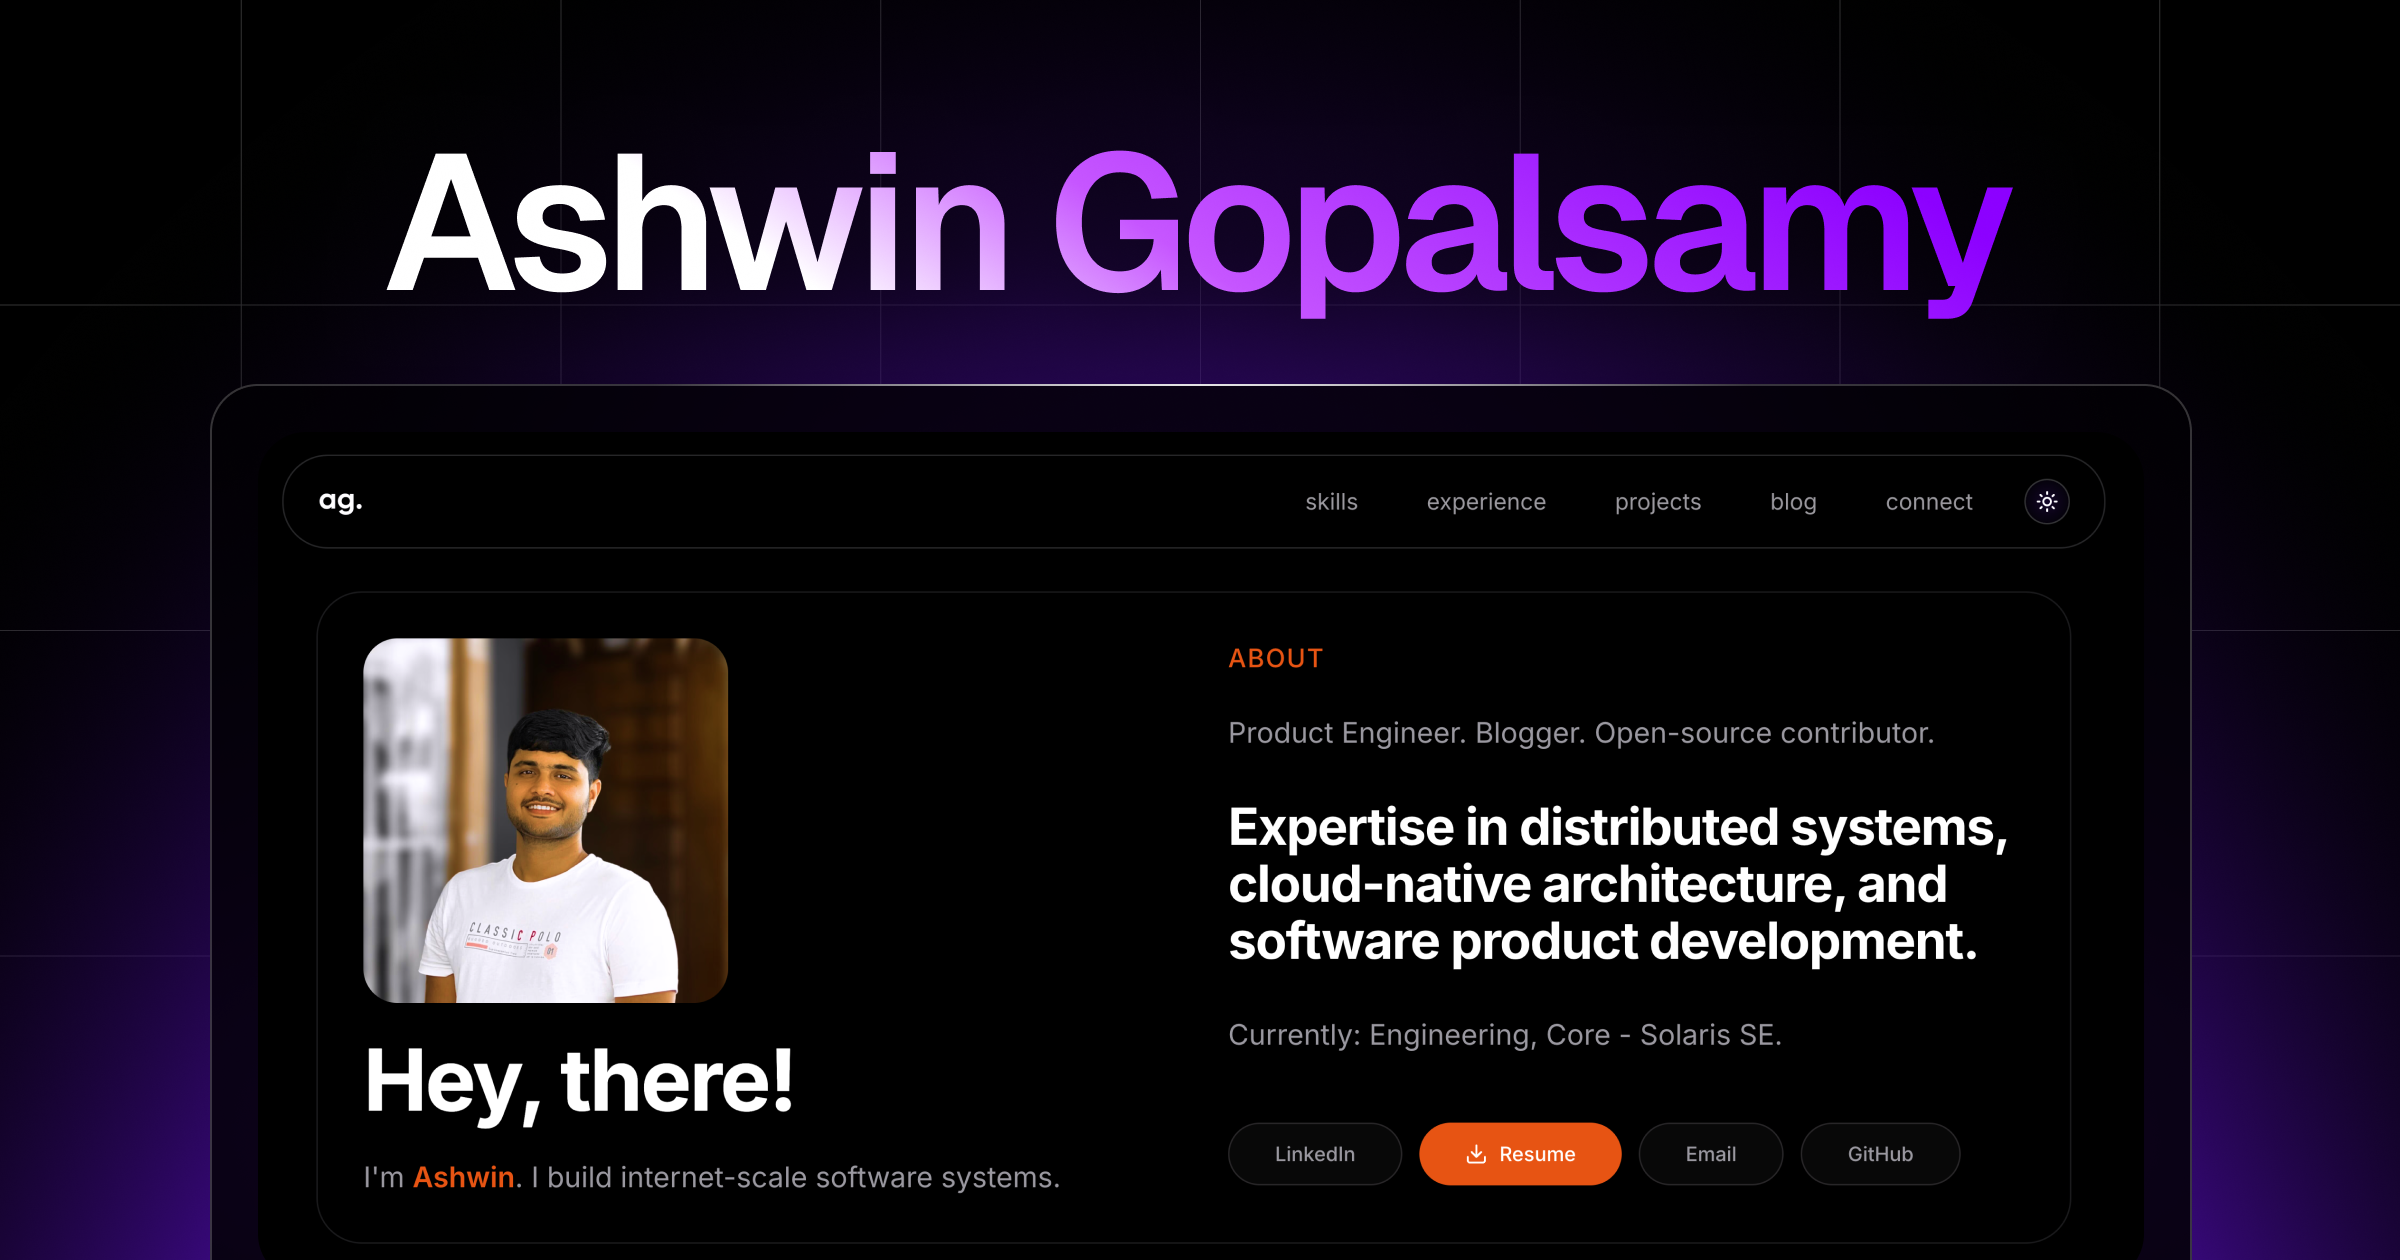
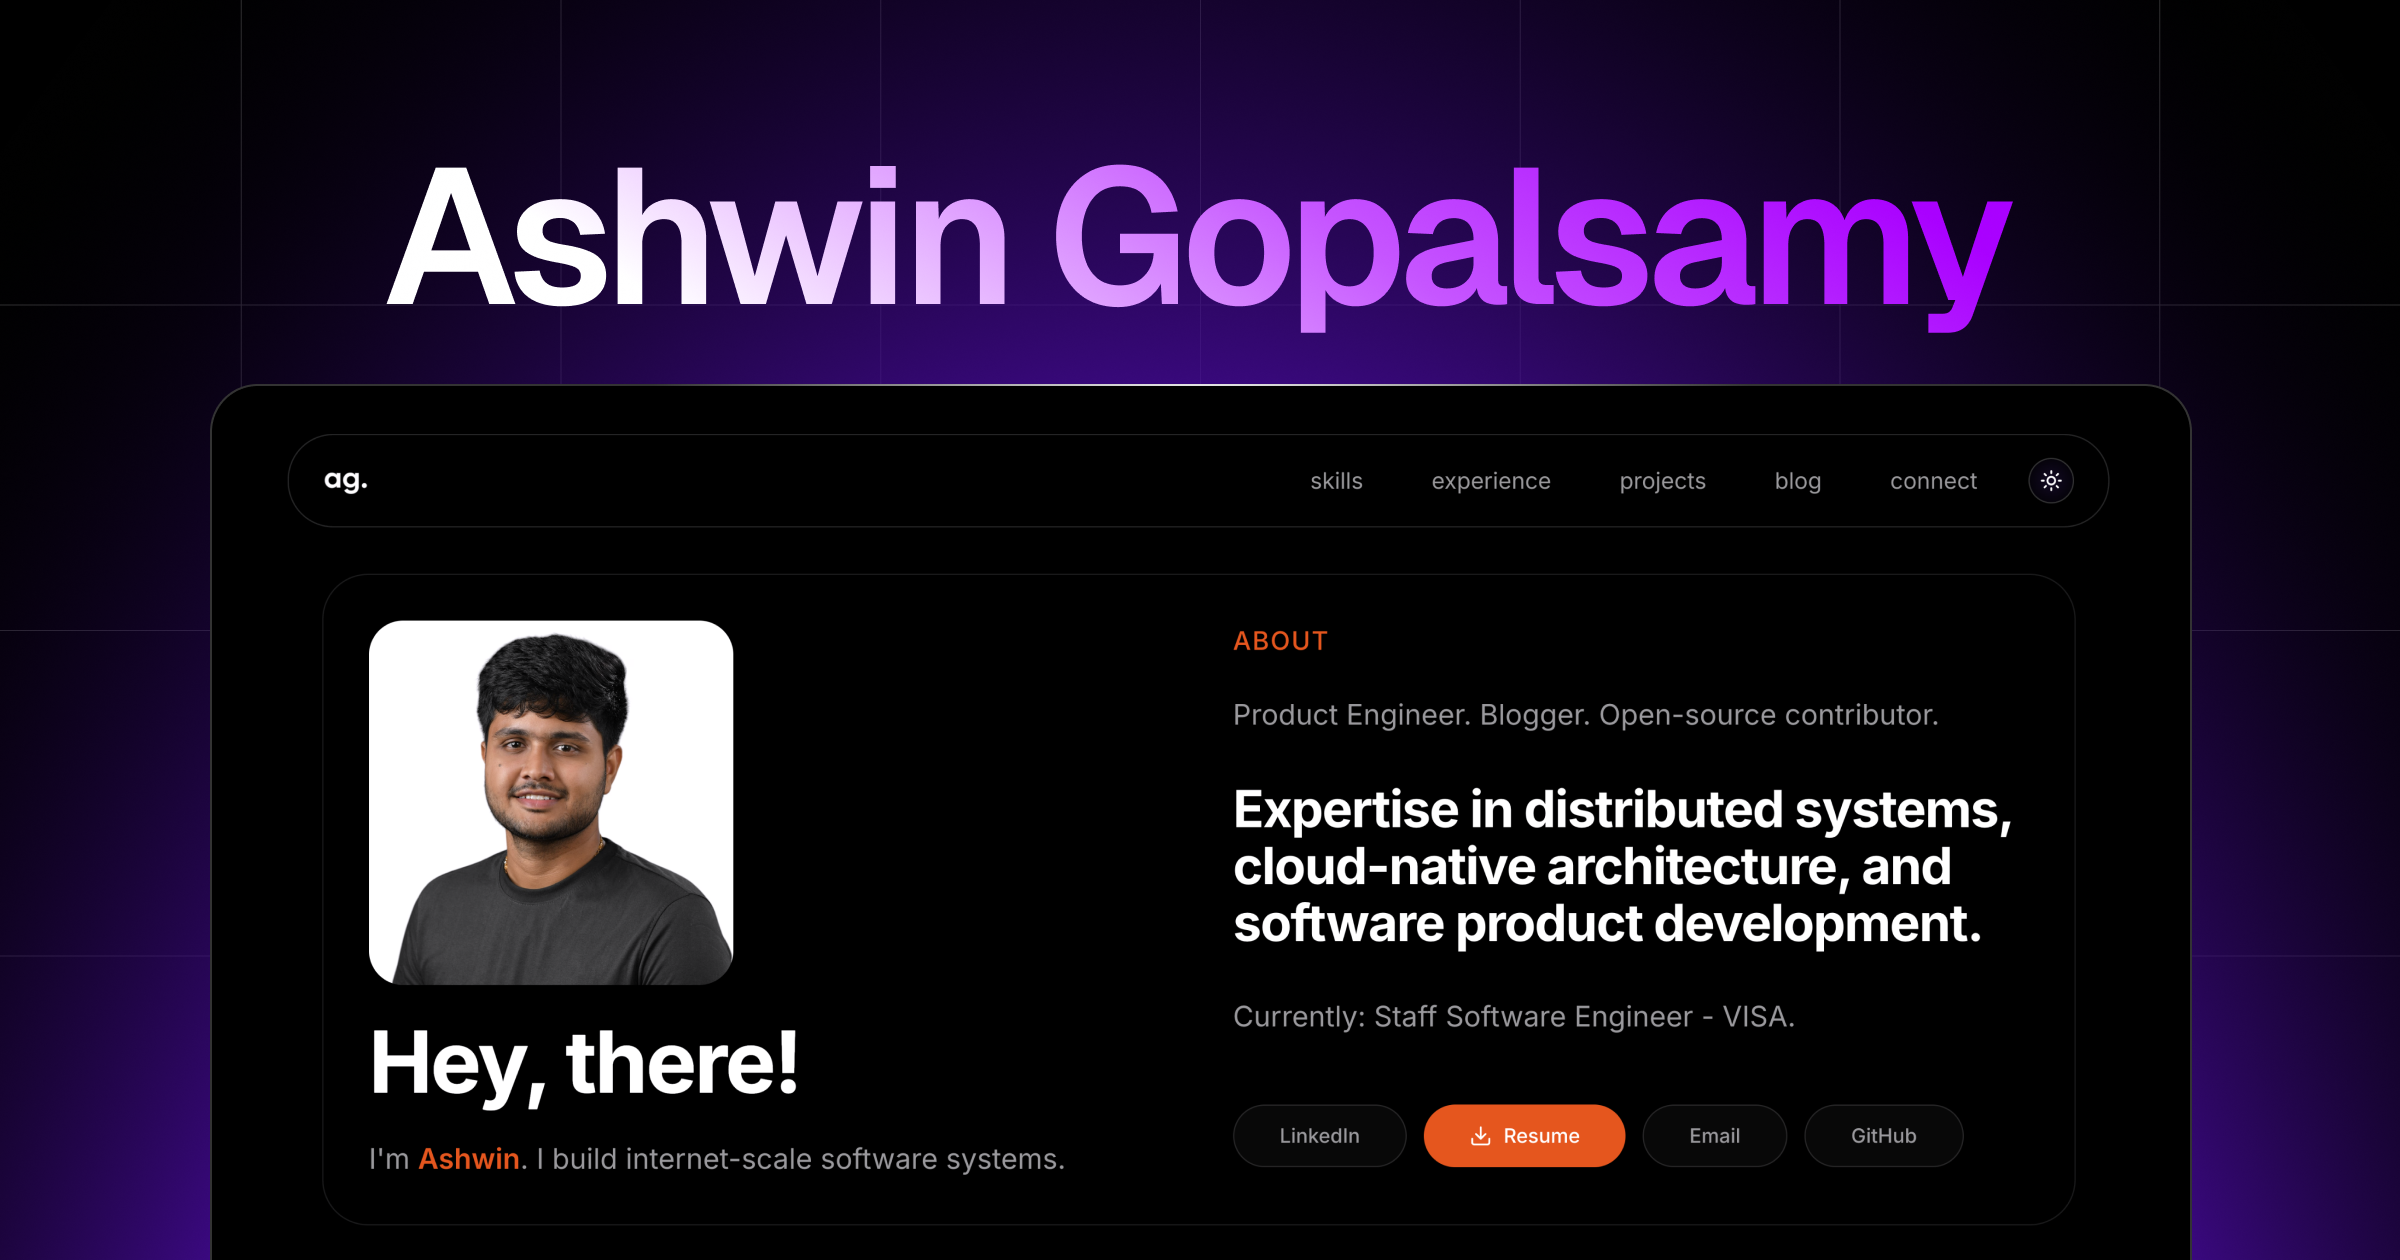
feat: add VISA update (#21)

diff --git a/components/sections/experience-section.tsx b/components/sections/experience-section.tsx
@@ -8,21 +8,38 @@ import { Button } from "@/components/ui/button"
 import { Calendar, ChevronDown, ChevronUp, Download, ExternalLink } from "lucide-react"
 import { cn } from "@/lib/utils"
 import { useTheme } from "next-themes"
-import { useMediaQuery } from "@/hooks/use-media-query"
 
 export function ExperienceSection() {
     const [expandedExperience, setExpandedExperience] = useState<number | null>(null)
     const { theme } = useTheme()
-    const isMobile = useMediaQuery("(max-width: 640px)")
     const sectionRef = useRef<HTMLElement>(null)
     const isInView = useInView(sectionRef, { once: true, margin: "-100px 0px" })
 
     const experiences = [
         {
+            company: "VISA",
+            logo: "/VISA.svg",
+            role: "Staff Software Engineer",
+            period: "May 2025 - Present",
+            description: [
+                "At VISA, I work on Pismo; a modern, cloud-native platform powering banks and fintechs across the globe with scalable, secure financial infrastructure.",
+                "Contributing to the platform thats safeguarding substantially high-volume system interactions with real-time decisioning and reliability at scale.",
+                "Immersing in VISA's global-grade engineering practices, while aligning early efforts toward platform integrity, modularity, and long-term resilience.",
+            ],
+            skills: [
+                "Go",
+                "Distributed Systems",
+                "Cloud Native Architecture",
+                "Event-driven Architecture",
+                "Microservices",
+            ],
+            link: "https://www.visa.com",
+        },
+        {
             company: "Solaris SE",
             logo: "/Solaris.svg",
             role: "Professional Engineer",
-            period: "January 2022 - April 2025",
+            period: "June 2022 - April 2025",
             description: [
                 "Owning the Accounts Domain within the Core Banking unit, home to foundational systems powering accounts lifecycle and interest-based financial products.",
                 "Designed and implemented cloud-native microservices using an event-sourced architecture - engineered for resilience, uptime, and scale.",
@@ -69,8 +86,8 @@ export function ExperienceSection() {
             period: "4 months",
             description: [
                 "Learnt & engaged in the development of an open-source project over a 4-month span, utilizing Microsoft Azure Cloud and GitHub, as a key participant in Microsoft's 'FutureReadyTalent' Internship Program.",
-                "Built Bud.ai - ‘The Student Twin’, an open-source project developed on Microsoft Azure as part of the FutureReadyTalent program.",
-                "Collaborated via GitHub and deployed cloud-native features using Azure’s AI tooling, getting hands-on exposure to open-source practices and scalable app design.",
+                "Built Bud.ai - 'The Student Twin', an open-source project developed on Microsoft Azure as part of the FutureReadyTalent program.",
+                "Collaborated via GitHub and deployed cloud-native features using Azure's AI tooling, getting hands-on exposure to open-source practices and scalable app design.",
             ],
             skills: ["Microsoft Azure", "JavaScript", "Git"],
             link: "https://news.microsoft.com/en-in/microsoft-collaborates-with-aicte-nasscom-ey-github-and-quess-corp-to-empower-indias-youth-with-tech-skills-to-be-job-ready/",
@@ -81,7 +98,7 @@ export function ExperienceSection() {
             role: "i++ Trainee",
             period: "3 months",
             description: [
-                "Selected as one of 30 trainees for Swiggy’s i++ engineering program - an immersive bootcamp focused on backend engineering at scale.",
+                "Selected as one of 30 trainees for Swiggy's i++ engineering program - an immersive bootcamp focused on backend engineering at scale.",
                 "Trained hands-on with real-world engineering tools and patterns - covering Go, gRPC, Kafka, AWS, and distributed databases.",
                 "Learned through mentorship, pair programming, and internal engineering talks that shaped a strong foundation in building production-grade systems.",
                 "This experience played a pivotal role in shaping my transition into backend product development, grounding me in modern cloud-native practices very early in my career.",
@@ -164,7 +181,7 @@ export function ExperienceSection() {
                                         >
                                             <div className="flex items-center space-x-4">
                                                 <motion.div
-                                                    className="w-16 h-16 bg-secondary flex items-center justify-center rounded-xl overflow-hidden"
+                                                    className="w-16 h-16 bg-white flex items-center justify-center rounded-xl overflow-hidden"
                                                     whileHover={{ scale: 1.05, rotate: 5 }}
                                                     transition={{ duration: 0.3 }}
                                                 >

diff --git a/app/layout.tsx b/app/layout.tsx
@@ -9,7 +9,7 @@ const baseUrl = "https://ashwingopalsamy.in"
 export const metadata: Metadata = {
   metadataBase: new URL(baseUrl),
   title: {
-    default: "Ashwin Gopalsamy | Cloud-Native Backend Engineer & Distributed Systems Specialist",
+    default: "Ashwin Gopalsamy",
     template: "%s | Ashwin Gopalsamy",
   },
   description:
@@ -57,13 +57,13 @@ export const metadata: Metadata = {
     type: "website",
     locale: "en_US",
     url: baseUrl,
-    title: "Ashwin Gopalsamy | Cloud-Native Backend Engineer & Distributed Systems Specialist",
+    title: "Ashwin Gopalsamy",
     description:
         "Software engineer with 4+ years experience in Go, AWS, and event-sourced microservices architecture for fintech products.",
     siteName: "Ashwin Gopalsamy",
     images: [
       {
-        url: `${baseUrl}/_vercel/image?url=${encodeURIComponent(`${baseUrl}/og-image.png`)}&w=1200&q=75`,
+        url: `${baseUrl}/og-image.png`,
         width: 1200,
         height: 630,
         alt: "Ashwin Gopalsamy - Software Engineer specializing in cloud-native backend development",
@@ -73,34 +73,26 @@ export const metadata: Metadata = {
   },
   twitter: {
     card: "summary_large_image",
-    title: "Ashwin Gopalsamy | Cloud-Native Backend Engineer",
+    title: "Ashwin Gopalsamy",
     description:
         "Software engineer specializing in Go, AWS, and distributed systems with experience building fintech products at scale.",
     creator: "@ashwingopalsamy",
-    images: [`${baseUrl}/_vercel/image?url=${encodeURIComponent(`${baseUrl}/og-image.png`)}&w=1200&q=75`],
+    images: [`${baseUrl}/og-image.png`],
   },
   other: {
-    "og:image": `${baseUrl}/_vercel/image?url=${encodeURIComponent(`${baseUrl}/og-image.png`)}&w=1200&q=75`,
-    "og:image:secure_url": `${baseUrl}/_vercel/image?url=${encodeURIComponent(`${baseUrl}/og-image.png`)}&w=1200&q=75`,
-    "og:image:type": "image/png",
-    "og:image:width": "1200",
-    "og:image:height": "630",
-    "og:image:alt": "Ashwin Gopalsamy - Software Engineer specializing in cloud-native backend development",
-    "og:image:url": `${baseUrl}/_vercel/image?url=${encodeURIComponent(`${baseUrl}/og-image.png`)}&w=1200&q=75`,
-    "og:url": baseUrl,
-    "og:site_name": "Ashwin Gopalsamy",
-    "og:title": "Ashwin Gopalsamy | Cloud-Native Backend Engineer & Distributed Systems Specialist",
-    "og:description": "Software engineer with 4+ years experience in Go, AWS, and event-sourced microservices architecture for fintech products.",
-    "whatsapp:image": `${baseUrl}/_vercel/image?url=${encodeURIComponent(`${baseUrl}/og-image.png`)}&w=1200&q=75`,
-    "whatsapp:title": "Ashwin Gopalsamy | Cloud-Native Backend Engineer & Distributed Systems Specialist",
-    "whatsapp:description": "Software engineer with 4+ years experience in Go, AWS, and event-sourced microservices architecture for fintech products.",
-  },
-  other: {
+    "og:image": `${baseUrl}/og-image.png`,
     "og:image:secure_url": `${baseUrl}/og-image.png`,
     "og:image:type": "image/png",
     "og:image:width": "1200",
     "og:image:height": "630",
     "og:image:alt": "Ashwin Gopalsamy - Software Engineer specializing in cloud-native backend development",
+    "og:url": baseUrl,
+    "og:site_name": "Ashwin Gopalsamy",
+    "og:title": "Ashwin Gopalsamy",
+    "og:description": "Software engineer with 4+ years experience in Go, AWS, and event-sourced microservices architecture for fintech products.",
+    "whatsapp:image": `${baseUrl}/_vercel/image?url=${encodeURIComponent(`${baseUrl}/og-image.png`)}&w=1200&q=75`,
+    "whatsapp:title": "Ashwin Gopalsamy",
+    "whatsapp:description": "Software engineer with 4+ years experience in Go, AWS, and event-sourced microservices architecture for fintech products.",
   },
   verification: {
     google: "google-site-verification-code", // Replace with actual verification code

diff --git a/app/client.tsx b/app/client.tsx
@@ -73,7 +73,6 @@ export default function ClientLayout({
                 media="(prefers-color-scheme: light)"
                 fetchPriority="high"
             />
-            <link rel="preload" href="/Solaris.svg" as="image" />
 
             {/* DNS prefetch for external resources */}
             <link rel="dns-prefetch" href="https://fonts.googleapis.com" />
@@ -81,7 +80,7 @@ export default function ClientLayout({
             <link rel="dns-prefetch" href="https://plausible.io" />
 
             {/* OpenGraph tags */}
-            <meta property="og:title" content="Ashwin Gopalsamy | Cloud-Native Backend Engineer" />
+            <meta property="og:title" content="Ashwin Gopalsamy" />
             <meta
                 property="og:description"
                 content="Software engineer specializing in cloud-native backend development, Go, and distributed systems with 4+ years of fintech experience"
@@ -94,7 +93,7 @@ export default function ClientLayout({
             {/* Twitter Card tags */}
             <meta name="twitter:card" content="summary_large_image" />
             <meta name="twitter:creator" content="@ashwingopalsamy" />
-            <meta name="twitter:title" content="Ashwin Gopalsamy | Cloud-Native Backend Engineer" />
+            <meta name="twitter:title" content="Ashwin Gopalsamy" />
             <meta
                 name="twitter:description"
                 content="Software engineer specializing in Go, AWS, and distributed systems with experience building fintech products at scale."
@@ -144,10 +143,10 @@ export default function ClientLayout({
                         "https://twitter.com/ashwingopalsamy",
                         "https://ashwingopalsamy.substack.com",
                     ],
-                    jobTitle: "Software Engineer",
+                    jobTitle: "Staff Software Engineer",
                     worksFor: {
                         "@type": "Organization",
-                        name: "Solaris SE",
+                        name: "VISA",
                     },
                     alumniOf: [
                         {
@@ -178,10 +177,10 @@ export default function ClientLayout({
                     ],
                     hasOccupation: {
                         "@type": "Occupation",
-                        name: "Software Engineer",
+                        name: "Staff Software Engineer",
                         occupationLocation: {
                             "@type": "City",
-                            name: "Berlin",
+                            name: "India",
                         },
                         skills: "Go, AWS, Kubernetes, Terraform, Distributed Systems, Microservices",
                     },

diff --git a/app/page.tsx b/app/page.tsx
@@ -66,7 +66,7 @@ export default function HomePage() {
                                                 Expertise in distributed systems, cloud-native architecture, and software product development.
                                             </p>
                                             <p className="text-xl text-muted-foreground">
-                                                Currently: Engineering, Core - Solaris SE.
+                                                Currently: Staff Software Engineer - VISA.
                                                 <br />
                                             </p>
                                         </div>
